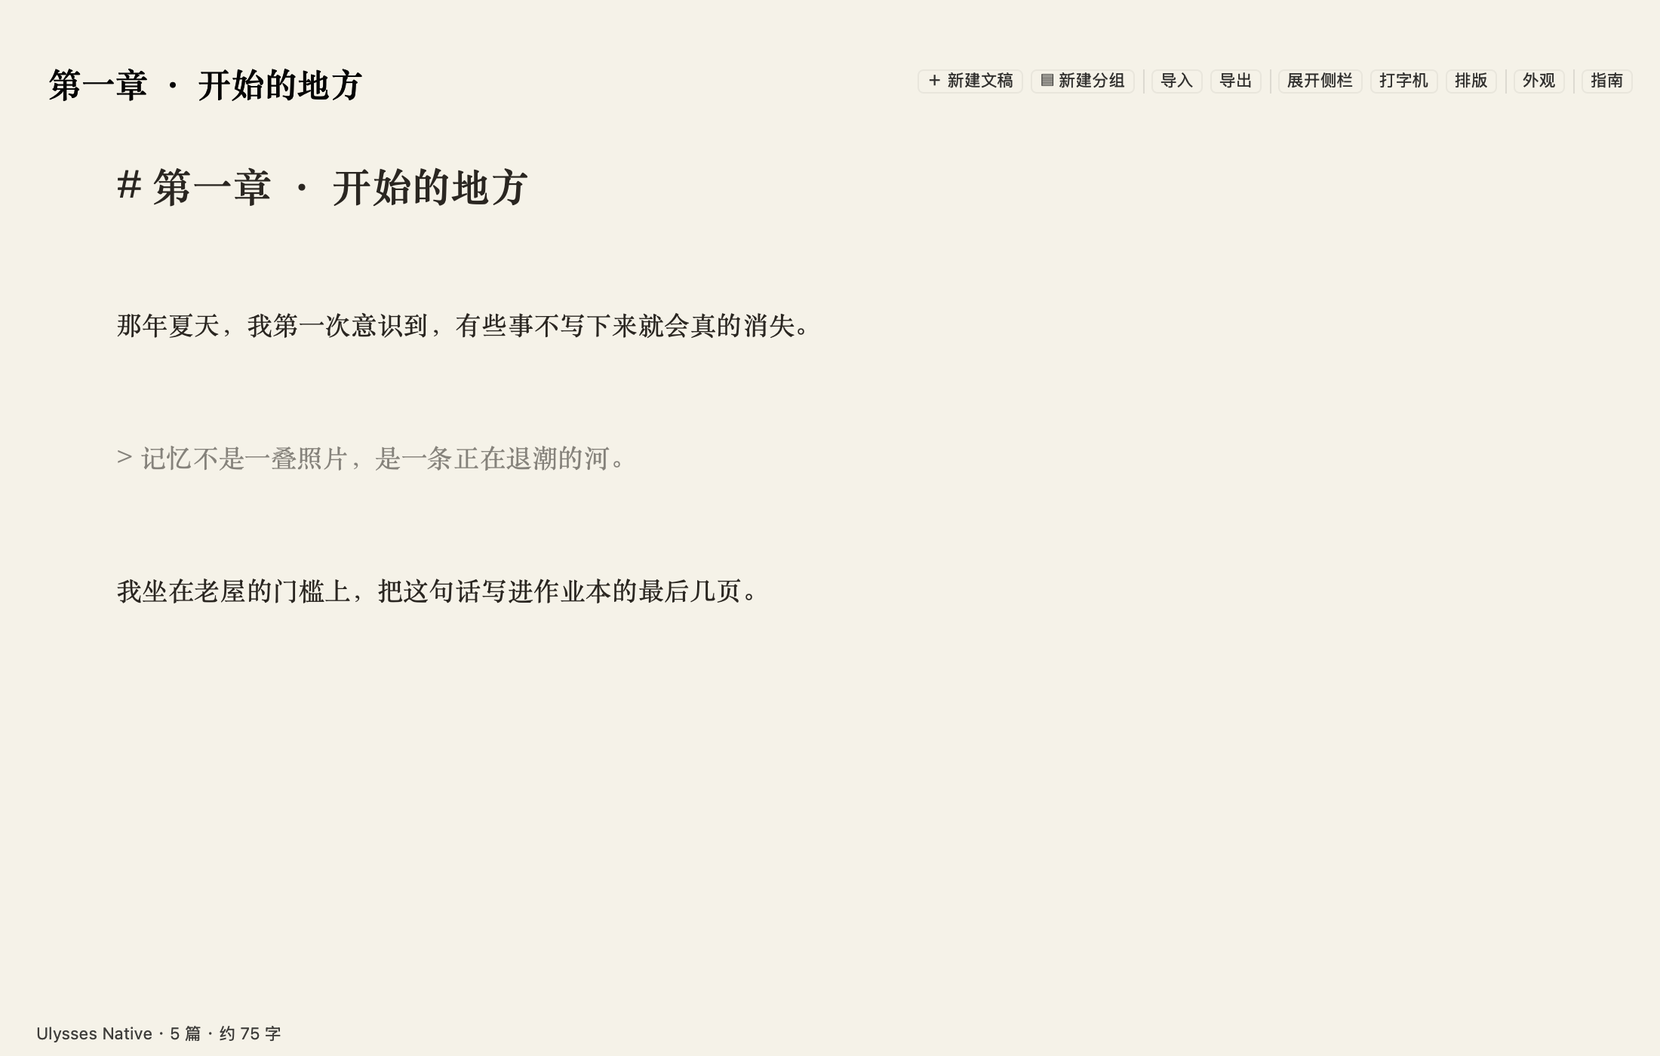
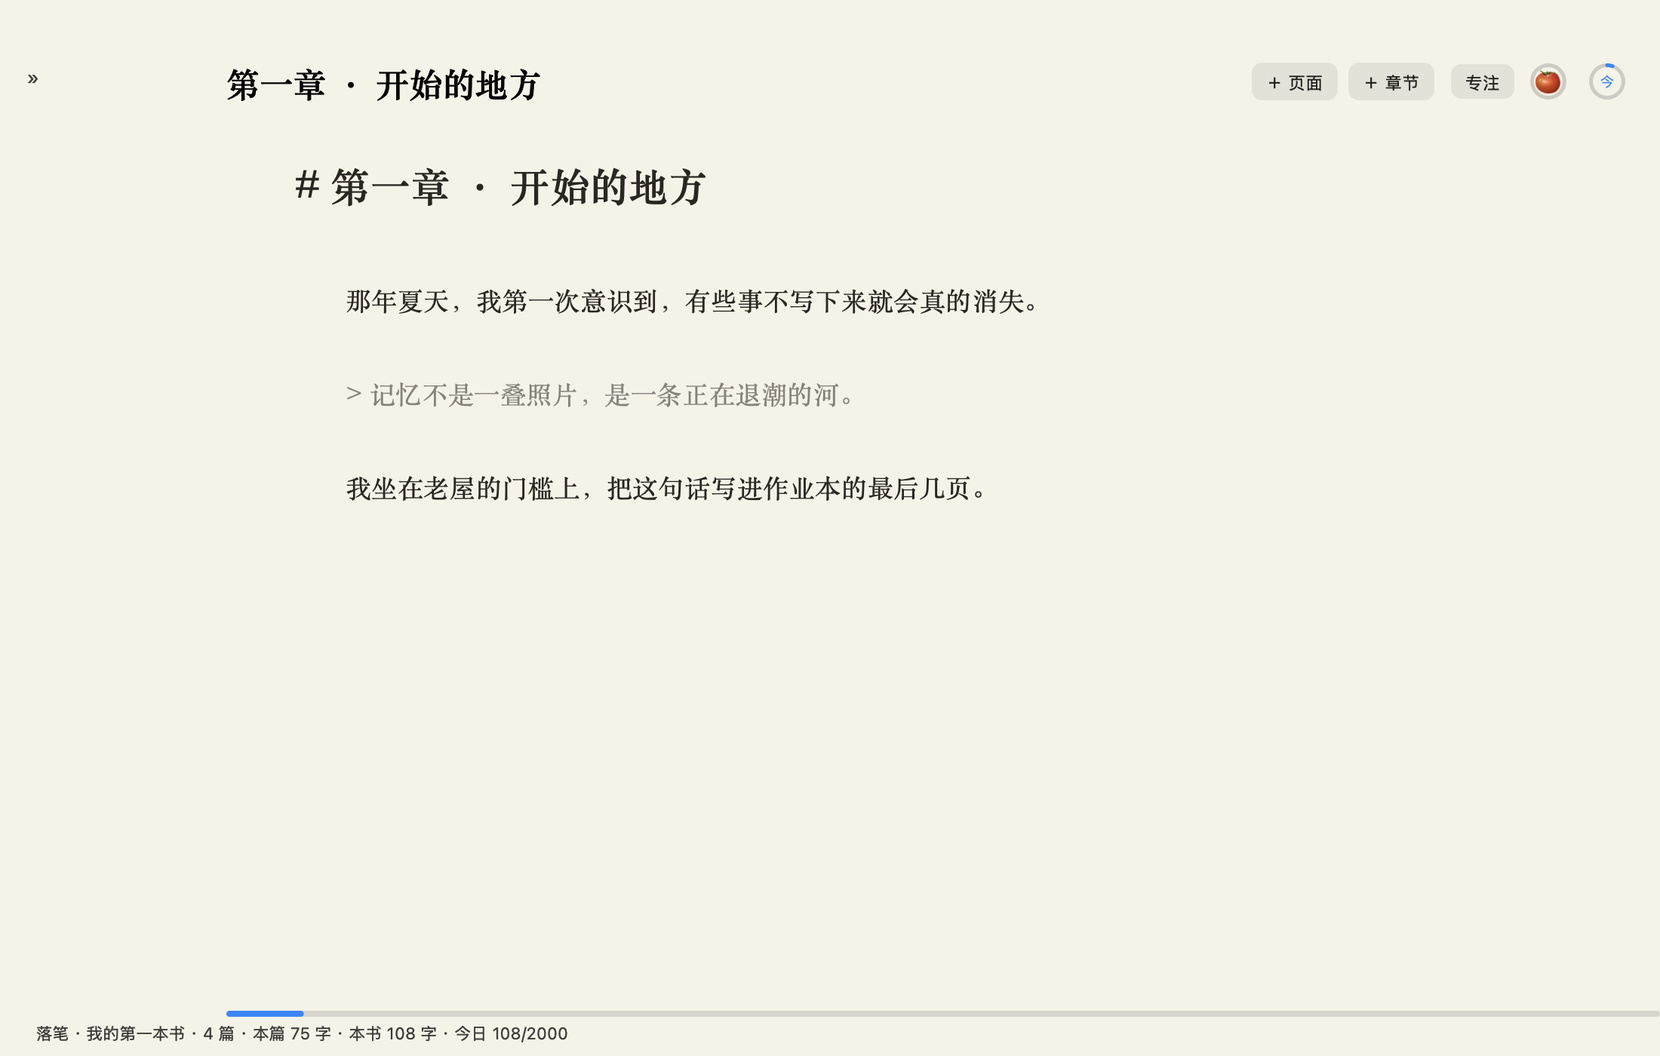
新建页面/章节回到侧栏底部与主页面右上、主页面加专注按钮、番茄浮层细化、新增影子模式（可与过去的自己比，可关闭）

diff --git a/luobi/Sources/Editor.swift b/luobi/Sources/Editor.swift
@@ -47,6 +47,10 @@ final class EditorRoot: NSView, NSTextViewDelegate, NSTextFieldDelegate {
     var table = NSOutlineView()
     var toolStack = NSStackView()
     var sidebarFooter = NSStackView()
+    /// 侧栏收起时才出现的「新建」入口（放在主页面右上角）
+    var collapsedActions = NSStackView()
+    /// 这一段番茄开始时的总字数，用来在结束时告诉你"这一番茄写了多少"
+    var pomoStartWords = 0
     var sidebarToggleButton: NSButton? = nil
     var sidebarWidth: NSLayoutConstraint!
     var titleLeading: NSLayoutConstraint!
@@ -239,19 +243,21 @@ final class EditorRoot: NSView, NSTextViewDelegate, NSTextFieldDelegate {
 
         buildToolbar()
 
-        // 侧栏底部常驻入口：不靠记快捷键，也不靠翻菜单
-        let footHint = NSTextField(labelWithString: "右键管理·拖动")
-        footHint.font = NSFont.systemFont(ofSize: 10.5)
-        footHint.textColor = .secondaryLabelColor
-        footHint.translatesAutoresizingMaskIntoConstraints = false
+        // 侧栏底部常驻入口：新建页面 / 新建章节。
+        // 用户反馈"新建页面和新建章节消失了"——顶栏塞不下，但侧栏底部一直有位置。
         sidebarFooter = NSStackView()
         sidebarFooter.orientation = .horizontal
         sidebarFooter.spacing = 6
         sidebarFooter.alignment = .centerY
         sidebarFooter.translatesAutoresizingMaskIntoConstraints = false
-        // 页脚只留一句提示：其余入口都在菜单栏图标和菜单里，顶栏/页脚越空越好
-        footHint.toolTip = "右键文稿或分组可以新建/重命名/移动/删除；也可以直接把文稿拖进分组"
-        sidebarFooter.addArrangedSubview(footHint)
+        let newPage = CapsuleButton(title: "＋ 页面", action: Selector(("addSheet:")),
+                                    tooltip: "新建一篇空白文稿")
+        newPage.target = self
+        let newChapter = CapsuleButton(title: "＋ 章节", action: Selector(("addChapter:")),
+                                       tooltip: "新建一章（自动编号，插在当前这章后面）")
+        newChapter.target = self
+        sidebarFooter.addArrangedSubview(newPage)
+        sidebarFooter.addArrangedSubview(newChapter)
         sidebarFooter.setHuggingPriority(.defaultLow, for: .horizontal)
 
         // 侧栏与正文之间的一条细分隔线（约束在主约束块里，避免引用尚未入树的视图）
@@ -270,6 +276,19 @@ final class EditorRoot: NSView, NSTextViewDelegate, NSTextFieldDelegate {
         addSubview(divider)
         addSubview(titleInput)
         addSubview(toolStack)
+        collapsedActions = NSStackView()
+        collapsedActions.orientation = .horizontal
+        collapsedActions.spacing = 6
+        collapsedActions.alignment = .centerY
+        collapsedActions.translatesAutoresizingMaskIntoConstraints = false
+        let cPage = CapsuleButton(title: "＋ 页面", action: Selector(("addSheet:")), tooltip: "新建一篇空白文稿")
+        cPage.target = self
+        let cChapter = CapsuleButton(title: "＋ 章节", action: Selector(("addChapter:")), tooltip: "新建一章")
+        cChapter.target = self
+        collapsedActions.addArrangedSubview(cPage)
+        collapsedActions.addArrangedSubview(cChapter)
+        collapsedActions.isHidden = true
+        addSubview(collapsedActions)
 
         focusExitButton = NSButton(title: "退出专注（Esc）", target: self, action: Selector(("toggleFocus:")))
         focusExitButton.bezelStyle = .texturedRounded
@@ -328,11 +347,13 @@ final class EditorRoot: NSView, NSTextViewDelegate, NSTextFieldDelegate {
             sidebarFooter.heightAnchor.constraint(equalToConstant: 22),
 
             titleInput.topAnchor.constraint(equalTo: topAnchor, constant: 40),
-            titleInput.trailingAnchor.constraint(equalTo: toolStack.leadingAnchor, constant: -12),
+            titleInput.trailingAnchor.constraint(equalTo: collapsedActions.leadingAnchor, constant: -12),
 
             toolStack.topAnchor.constraint(equalTo: topAnchor, constant: 42),
             toolStack.trailingAnchor.constraint(equalTo: trailingAnchor, constant: -18),
             toolStack.heightAnchor.constraint(equalToConstant: 24),
+            collapsedActions.trailingAnchor.constraint(equalTo: toolStack.leadingAnchor, constant: -10),
+            collapsedActions.centerYAnchor.constraint(equalTo: toolStack.centerYAnchor),
             focusExitButton.trailingAnchor.constraint(equalTo: trailingAnchor, constant: -18),
             focusExitButton.topAnchor.constraint(equalTo: topAnchor, constant: 42),
             focusExitButton.heightAnchor.constraint(equalToConstant: 24),
@@ -375,7 +396,8 @@ final class EditorRoot: NSView, NSTextViewDelegate, NSTextFieldDelegate {
         // 顶栏只留两个环：新建/分组/收起侧栏都已经挪进侧栏本身了。
         // 剩下的"偶尔用一次"的动作在菜单栏图标和菜单里。
         let groups: [[(String, String, String)]] = [
-            [("__pomoRing__", "togglePomodoro:", "番茄钟：点一下开始专注，再点暂停；鼠标停在这里看今天的数据"),
+            [("专注", "toggleFocus:", "藏起所有控件只留正文（Esc 退出）"),
+             ("__pomoRing__", "togglePomodoro:", "番茄钟：点一下开始专注，再点暂停；鼠标停在这里看今天的数据"),
              ("__goalRing__", "showStatsPanel:", "今日写作进度：点开看最近 30 天的统计")],
         ]
         toolStack = NSStackView()
@@ -480,6 +502,30 @@ final class EditorRoot: NSView, NSTextViewDelegate, NSTextFieldDelegate {
         }
         let s = Sheet(id: UUID().uuidString, title: t, content: "", folderId: folder)
         doc.sheets.append(s)
+        switchTo(s.id)
+    }
+
+    /// 新建一章：自动编号，插在当前这章后面（同名就往后顺延）
+    @objc func addChapter(_ sender: Any?) {
+        var n = doc.sheets.filter { $0.card == nil && $0.title.contains("章") }.count + 1
+        var t = "第\(doc.chineseNumber(n))章"
+        while doc.sheets.contains(where: { $0.title == t }) {
+            n += 1
+            t = "第\(doc.chineseNumber(n))章"
+        }
+        var folder: String? = nil
+        if let cur = doc.sheets.first(where: { $0.id == doc.activeId }) {
+            folder = cur.folderId
+        } else if let row = table.selectedRow >= 0 ? table.selectedRow : nil,
+                  let it = table.item(atRow: row) as? SideItem, let f = it.folder {
+            folder = f.id
+        }
+        let s = Sheet(id: UUID().uuidString, title: t, content: "", folderId: folder)
+        if let idx = doc.sheets.firstIndex(where: { $0.id == doc.activeId }) {
+            doc.sheets.insert(s, at: idx + 1)
+        } else {
+            doc.sheets.append(s)
+        }
         switchTo(s.id)
     }
 
@@ -640,6 +686,7 @@ final class EditorRoot: NSView, NSTextViewDelegate, NSTextFieldDelegate {
         let on = focusMode
         updateTextInsets()
         toolStack.isHidden = on
+        collapsedActions.isHidden = on || doc.sidebarVisible
         focusExitButton.isHidden = !on
         titleInput.isHidden = on
         if on {
@@ -678,6 +725,8 @@ final class EditorRoot: NSView, NSTextViewDelegate, NSTextFieldDelegate {
         for v in sidebarViews { v.isHidden = !show }
         sidebarWidth.constant = show ? 236 : 0
         expandButton.isHidden = show || focusMode || readingMode
+        // 收起来以后，新建入口挪到主页面右上
+        collapsedActions.isHidden = show || focusMode || readingMode
         // 收起后左边缘会多出 » 按钮，标题让开它
         titleLeading.constant = show ? 20 : 44
         if animated, let w = window {
@@ -726,15 +775,28 @@ extension EditorRoot {
 
     /// 鼠标停在番茄环上：今天写了多少、几个番茄、专注多久，一屏看完。
     /// 用浮层而不是状态栏，是因为"想知道"的时机是鼠标停下来的那一瞬间。
-    func showTomatoStats() {
-        guard let btn = pomoButton else { return }
-        let pop = tomatoPopover ?? NSPopover()
-        pop.behavior = .semitransient
-        pop.animates = false
+    /// 番茄浮层要显示的全部文案（抽出来是为了能被测试直接检查）
+    func tomatoStatsText() -> String {
         let minutes = doc.todaySeconds / 60
         var lines = ["今天 \(doc.todayWritten) 字"]
         if doc.dailyGoal > 0 { lines[0] += " / 目标 \(doc.dailyGoal)" }
+        if doc.dailyGoal > 0 {
+            let pct = min(999, Int(Double(doc.todayWritten) / Double(doc.dailyGoal) * 100))
+            lines.append("目标完成 \(pct)% · 还差 \(max(0, doc.dailyGoal - doc.todayWritten)) 字")
+        }
         lines.append("番茄 \(doc.todayPomodoros) 个 · 专注 \(minutes) 分钟")
+        let week = doc.writeStats(days: 7)
+        if week.activeDays > 0 {
+            lines.append("近 7 天：平均 \(week.totalWords / max(1, week.activeDays)) 字/天 · 最长连续 \(week.longestStreak) 天")
+        }
+        if shadowModeEnabled {
+            let sh = doc.shadow()
+            if sh.hasHistory {
+                lines.append("影子 · 过去的你这会儿 \(sh.expected) 字，你现在 \(sh.actual) 字（\(sh.verdict)）")
+            } else {
+                lines.append("影子：再写几天就有参照了")
+            }
+        }
         if hasPomoSession {
             if pomoIsBreak {
                 lines.append(pomoRunning ? "休息中 · 还剩 \(pomoRemainingText)" : "休息已暂停")
@@ -748,7 +810,15 @@ extension EditorRoot {
         } else {
             lines.append("点一下开始 \(doc.focusMinutes) 分钟专注")
         }
-        let label = NSTextField(labelWithString: lines.joined(separator: "\n"))
+        return lines.joined(separator: "\n")
+    }
+
+    func showTomatoStats() {
+        guard let btn = pomoButton else { return }
+        let pop = tomatoPopover ?? NSPopover()
+        pop.behavior = .semitransient
+        pop.animates = false
+        let label = NSTextField(labelWithString: tomatoStatsText())
         label.font = NSFont.systemFont(ofSize: 12)
         label.textColor = .labelColor
         label.maximumNumberOfLines = 0

diff --git a/luobi/Sources/Guide.swift b/luobi/Sources/Guide.swift
@@ -142,7 +142,9 @@ private func guideText(preset: ThemePreset) -> NSAttributedString {
     bullet("左侧栏是一棵树：分组是文件夹，文稿是叶子。点文稿切换，把文稿拖到分组上就归档。")
     bullet("侧栏右上角的 « 一键收起左侧栏，只剩一张纸；收起后窗口最左边会出现 » 用来展开。左上角「‹ 书库」随时回书库换书。")
     bullet("中间纸张就是正文。标题在编辑区顶部，点进去直接改，改完即存。")
-    bullet("顶栏只剩两个环：🍅 番茄钟和「今」今日进度。鼠标停在番茄上，会浮出今天写了多少字、几个番茄、专注多久。其余动作在菜单栏图标（窗口右上角常驻）和应用菜单里。")
+    bullet("新建都在侧栏底部：「＋ 页面」是空白文稿，「＋ 章节」会自动编号（第一章、第二章…）并插在当前这章后面。侧栏收起来时，这两个按钮会跑到主页面右上角，不会消失。")
+    bullet("顶栏只有：专注、🍅 番茄钟、「今」今日进度。鼠标停在番茄上，会浮出今天写了多少字、目标完成了百分之几、几个番茄、专注多久、近 7 天平均，还有「影子」——过去的你这会儿写到哪儿了。")
+    bullet("「专注」按钮会把所有控件藏起来，只留正文（Esc 退出）。其余动作在菜单栏图标（窗口右上角常驻）和应用菜单里。")
     bullet("Markdown 实时排版：# 到 ###### 是六级标题，**加粗** 用双星号，> 开头是引用（灰色斜体）。标记保留在正文里，导出仍是 Markdown。")
     bullet("底部状态栏显示书名、篇数、「本篇 N 字 · 本书 N 字」和保存状态。写作目标、统计、指南都在菜单栏图标的下拉菜单里。")
     add("按钮都能点，不用记快捷键。",
@@ -173,6 +175,7 @@ private func guideText(preset: ThemePreset) -> NSAttributedString {
     bullet("人物卡片：侧栏右键「新建人物卡」；⌘ 点正文里的名字会弹出卡片。视图菜单里有「人物一览」和「人物关系图」。")
     bullet("番茄钟：顶部的环（里面是 T）点一下开始专注。暂停后再点一下是「继续」，进度不会丢。到点以后不会打断你，而是变橙、开始正计时（+05:20），你想停就停。")
     bullet("番茄时长自己定：视图菜单 → 番茄钟时长设置，专注和休息分别设多少分钟都行。菜单栏的小图标也跟着计时。")
+    bullet("影子模式：把「过去的自己」当成对手。它按你过去几天的每小时产量，算出「过去的你这会儿大概写了多少」，再和今天的你比——领先多少、落后多少，番茄浮层里能看到。不想要就关：视图菜单或菜单栏图标 → 影子模式。")
     bullet("写作统计（视图菜单）：最近 30 天的字数柱状图、连续达标天数、目标线，还有「今天写了多少分钟」——只统计真正在打字的时间。")
     bullet("写作节奏（视图菜单）：按小时看你的产量。哪一点写得最多、哪一点最没效率、最快手速多少字/分钟，以及「拐点」——峰值之后掉到一半以下的那个小时，到了就适合收尾。")
 

diff --git a/luobi/Sources/Shadow.swift b/luobi/Sources/Shadow.swift
@@ -1,0 +1,71 @@
+import AppKit
+
+/// 影子：过去的自己这时候写到哪儿了。
+///
+/// 数据来源是先前的 hourlyWords（按小时记的字数）。把"同一天的同一小时"跨天取平均，
+/// 就能得到一条"过去的自己"的基准线；今天已经过去多少小时，就取对应区间的累计值。
+/// 它不需要任何新数据，写几天就自动有了。
+struct ShadowStats {
+    var expected: Int      // 过去的自己，到这个点大概写了多少
+    var actual: Int        // 今天的你，到现在写了多少
+    var days: Int          // 有记录的天数（不含今天）
+
+    var hasHistory: Bool { days > 0 }
+    var delta: Int { actual - expected }
+    var verdict: String {
+        if !hasHistory { return "再写几天就有参照了" }
+        if delta >= 0 { return "领先 \(delta) 字" }
+        return "落后 \(-delta) 字"
+    }
+}
+
+extension DocState {
+
+    func shadow(now: Date = Date()) -> ShadowStats {
+        let cal = Calendar.current
+        let fmt = DateFormatter()
+        fmt.dateFormat = "yyyy-MM-dd"
+        fmt.locale = Locale(identifier: "en_US_POSIX")
+        let todayKey = fmt.string(from: now)
+        let hour = cal.component(.hour, from: now)
+        let minute = cal.component(.minute, from: now)
+
+        // 按小时聚合成"每天平均"
+        var sums: [Int: Int] = [:]
+        var seenDays = Set<String>()
+        for (key, words) in hourlyWords {
+            // key 形如 "2026-11-04 15"
+            guard key.count >= 13 else { continue }
+            let day = String(key.prefix(10))
+            guard day != todayKey else { continue }
+            guard let h = Int(key.suffix(2)) else { continue }
+            sums[h, default: 0] += words
+            seenDays.insert(day)
+        }
+        guard !seenDays.isEmpty else {
+            return ShadowStats(expected: 0, actual: todayWritten, days: 0)
+        }
+        let days = seenDays.count
+        func avg(_ h: Int) -> Double { Double(sums[h] ?? 0) / Double(days) }
+
+        var expected = 0.0
+        for h in 0..<hour { expected += avg(h) }
+        expected += avg(hour) * (Double(minute) / 60.0)
+
+        return ShadowStats(expected: Int(expected.rounded()), actual: todayWritten, days: days)
+    }
+}
+
+extension EditorRoot {
+
+    var shadowModeEnabled: Bool {
+        UserDefaults.standard.object(forKey: "shadowMode") as? Bool ?? true
+    }
+
+    @objc func toggleShadowMode(_ sender: Any?) {
+        UserDefaults.standard.set(!shadowModeEnabled, forKey: "shadowMode")
+        startupNote = shadowModeEnabled ? "影子模式已打开：和过去的自己比" : "影子模式已关闭"
+        refreshBar()
+        rebuildStatusMenu()
+    }
+}

diff --git a/luobi/Sources/main.swift b/luobi/Sources/main.swift
@@ -66,6 +66,8 @@ for (name, items) in [
     ("视图", [
         NSMenuItem(title: "返回书库", action: Selector(("showLibraryAction:")), keyEquivalent: ""),
         NSMenuItem(title: "显示/收起侧栏", action: Selector(("toggleSidebar:")), keyEquivalent: ""),
+        NSMenuItem(title: "新建页面", action: Selector(("addSheet:")), keyEquivalent: ""),
+        NSMenuItem(title: "新建章节", action: Selector(("addChapter:")), keyEquivalent: ""),
         NSMenuItem(title: "新建分组", action: Selector(("addFolder:")), keyEquivalent: ""),
         { let s = NSMenuItem.separator(); return s }(),
         NSMenuItem(title: "大纲板…", action: Selector(("showBoard:")), keyEquivalent: ""),
@@ -80,6 +82,8 @@ for (name, items) in [
         NSMenuItem(title: "番茄钟时长设置…", action: Selector(("showPomodoroSettings:")), keyEquivalent: ""),
         NSMenuItem(title: "人物一览…", action: Selector(("showCardsOverview:")), keyEquivalent: ""),
         NSMenuItem(title: "人物关系图…", action: Selector(("showRelationGraph:")), keyEquivalent: ""),
+        { let s = NSMenuItem.separator(); return s }(),
+        NSMenuItem(title: "影子模式（和过去的自己比）", action: Selector(("toggleShadowMode:")), keyEquivalent: ""),
     ]),
     ("窗口", [
         NSMenuItem(title: "最小化", action: #selector(NSWindow.performMiniaturize(_:)), keyEquivalent: "m"),

diff --git a/luobi/Sources/Pomodoro.swift b/luobi/Sources/Pomodoro.swift
@@ -49,6 +49,7 @@ extension EditorRoot {
     }
 
     func startPomodoro(isBreak: Bool) {
+        pomoStartWords = totalWords(doc)
         pomoIsBreak = isBreak
         pomoSpent = 0
         pomoStartAt = Date()
@@ -109,8 +110,16 @@ extension EditorRoot {
             } else {
                 doc.addPomodoro()
                 persistNow()
+                let wrote = max(0, totalWords(doc) - pomoStartWords)
+                var detail = "这一段时间写了 \(wrote) 字。现在开始正计时——想停就停，想接着写也算。今天已完成 \(doc.todayPomodoros) 个番茄。"
+                if shadowModeEnabled {
+                    let sh = doc.shadow()
+                    if sh.hasHistory {
+                        detail += "\n影子：过去的你这会儿 \(sh.expected) 字，你 \(sh.actual) 字（\(sh.verdict)）"
+                    }
+                }
                 showToast(title: "\(Int(pomoDuration / 60)) 分钟到了",
-                          detail: "现在开始正计时——想停就停，想接着写也算。今天已完成 \(doc.todayPomodoros) 个番茄。",
+                          detail: detail,
                           seconds: 16,
                           buttons: [("休息 \(doc.breakMinutes) 分钟", Selector(("startBreakFromToast:"))),
                                     ("继续写（正计时）", Selector(("dismissToast:")))])

diff --git a/luobi/Sources/StatusBar.swift b/luobi/Sources/StatusBar.swift
@@ -266,6 +266,11 @@ extension EditorRoot {
         add("设置今日写作目标…", "showGoalPanel:")
         add("写作统计…", "showStatsPanel:")
         add("写作节奏…", "showRhythmPanel:")
+        let shadowItem = NSMenuItem(title: shadowModeEnabled ? "影子模式：开" : "影子模式：关",
+                                    action: Selector(("toggleShadowMode:")), keyEquivalent: "")
+        shadowItem.target = self
+        shadowItem.state = shadowModeEnabled ? .on : .off
+        menu.addItem(shadowItem)
         add("大纲板…", "showBoard:")
         add("人物一览…", "showCardsOverview:")
         menu.addItem(.separator())

diff --git a/luobi/README.md b/luobi/README.md
@@ -165,6 +165,25 @@ open build/Luobi.app
 
 数据按小时记在 `state.json` 的 `hourlyWords` 里，只留最近 90 天。
 
+## 新建页面 / 新建章节
+
+两个入口，按侧栏状态自动换位置：
+
+- **侧栏展开时**：在侧栏**底部**，「＋ 页面」「＋ 章节」。
+- **侧栏收起时**：在**主页面右上角**，同样的两个按钮。
+- 也都在「视图」菜单里。
+
+「＋ 页面」是空白文稿，落在当前选中的分组里。「＋ 章节」会自动数数（第一章、第二章……），并把新章**插在当前这章后面**，不会跑到书尾。
+
+## 影子模式：和过去的自己比
+
+字数是结果，容易焦虑；和"过去的自己"比，才是可持续的目标。
+
+- 它按你过去几天**每小时**的产量，算出「过去的你，到这个点大概写了多少字」。
+- 今天的你和这条线一比：领先多少、落后多少，番茄钟浮层里直接写出来。
+- 没到一周也有参照——写两三天就够。
+- **可以关**：视图菜单 → 影子模式，或在菜单栏图标里关掉，浮层就不再显示这一行。
+
 ## 写作目标
 
 写作最难的是「今天有没有推进」，所以目标按**天**算，不按全书总量。
@@ -377,6 +396,19 @@ App 内置了三层保险，日常不需要你操心：
 能，它本来就不联网。
 
 ## 更新日志
+
+### 1.1.0
+- 新建页面 / 新建章节回到手边：侧栏展开时在侧栏底部，收起时在主页面右上角。
+- 主页面加了「专注」按钮：一键藏起所有控件，只留正文（Esc 退出）。
+- 番茄钟浮层更详细：目标完成百分比、近 7 天平均、最长连续天数。
+- 新增**影子模式**：拿"过去的自己"当参照，看今天领先还是落后；可在视图菜单或菜单栏关闭。
+
+### 1.0.0
+- 书库：一进来先选书，书本悬停看统计；另有随笔夹，随手记直接落进去。
+- 多书支持：切换、新建、改名、删除。
+
+### 1.0.1
+- 所有面板都能退出：右下角「完成」+ Esc，空状态不再卡死；同一时间只保留一个面板。
 
 ### 0.9.0
 - **改名：Ulysses Native → 落笔。** 「落笔」指的是手落在纸上的那一瞬，也就是写作里最难的那一步；工具只该帮你更快开始。
